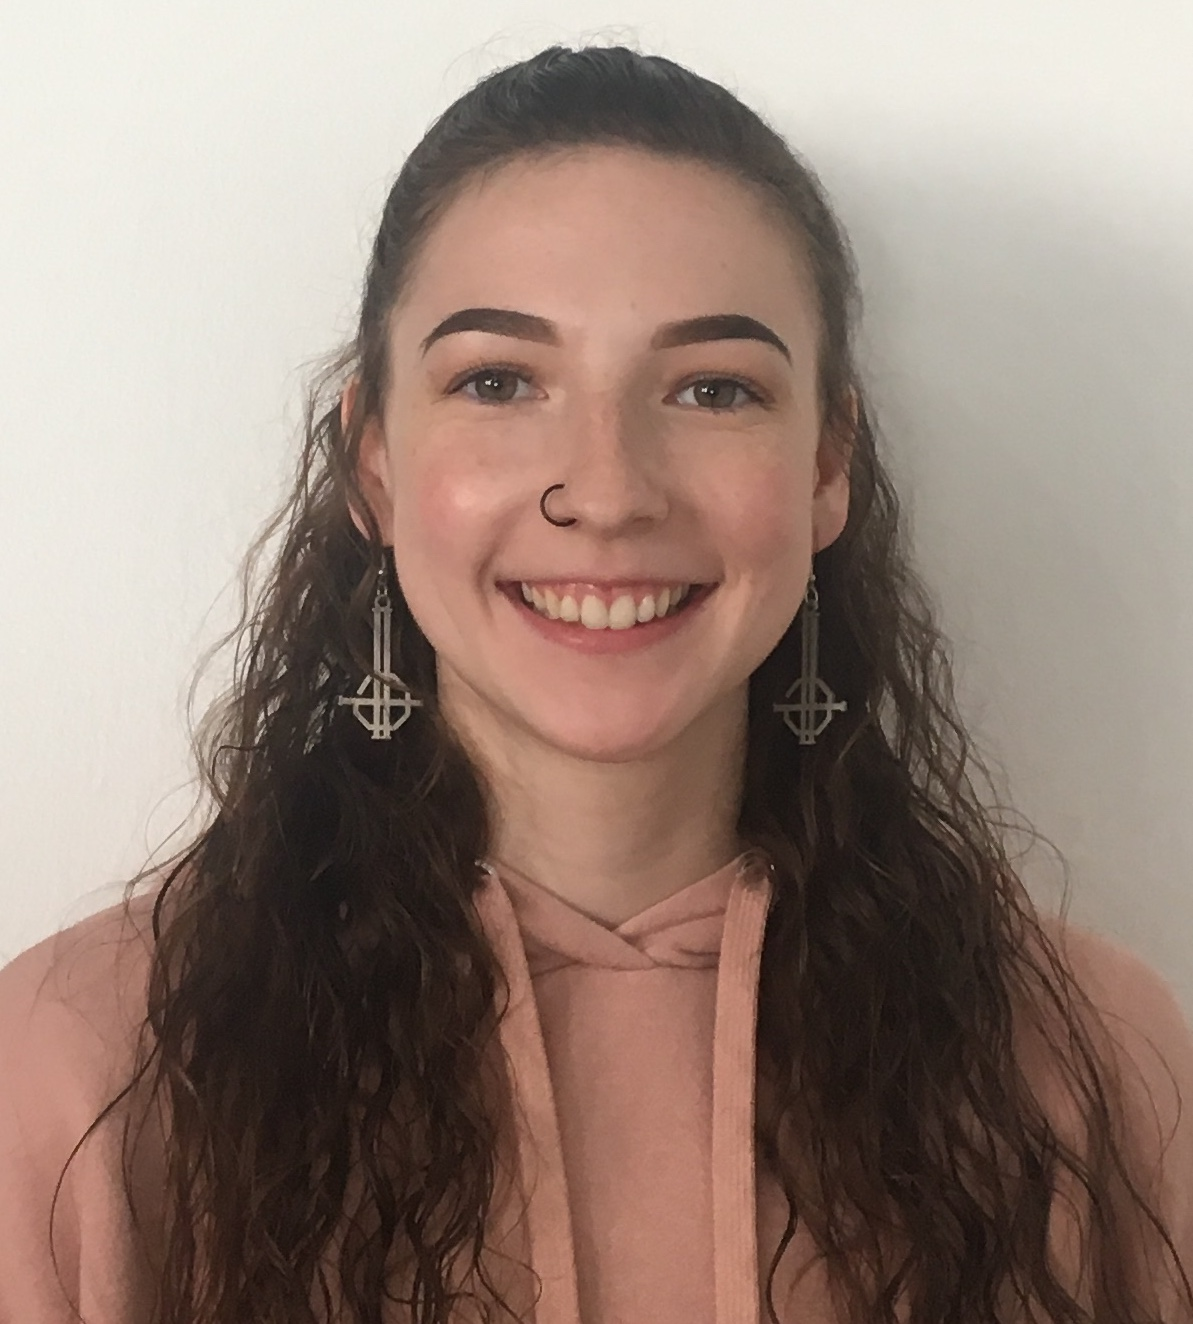
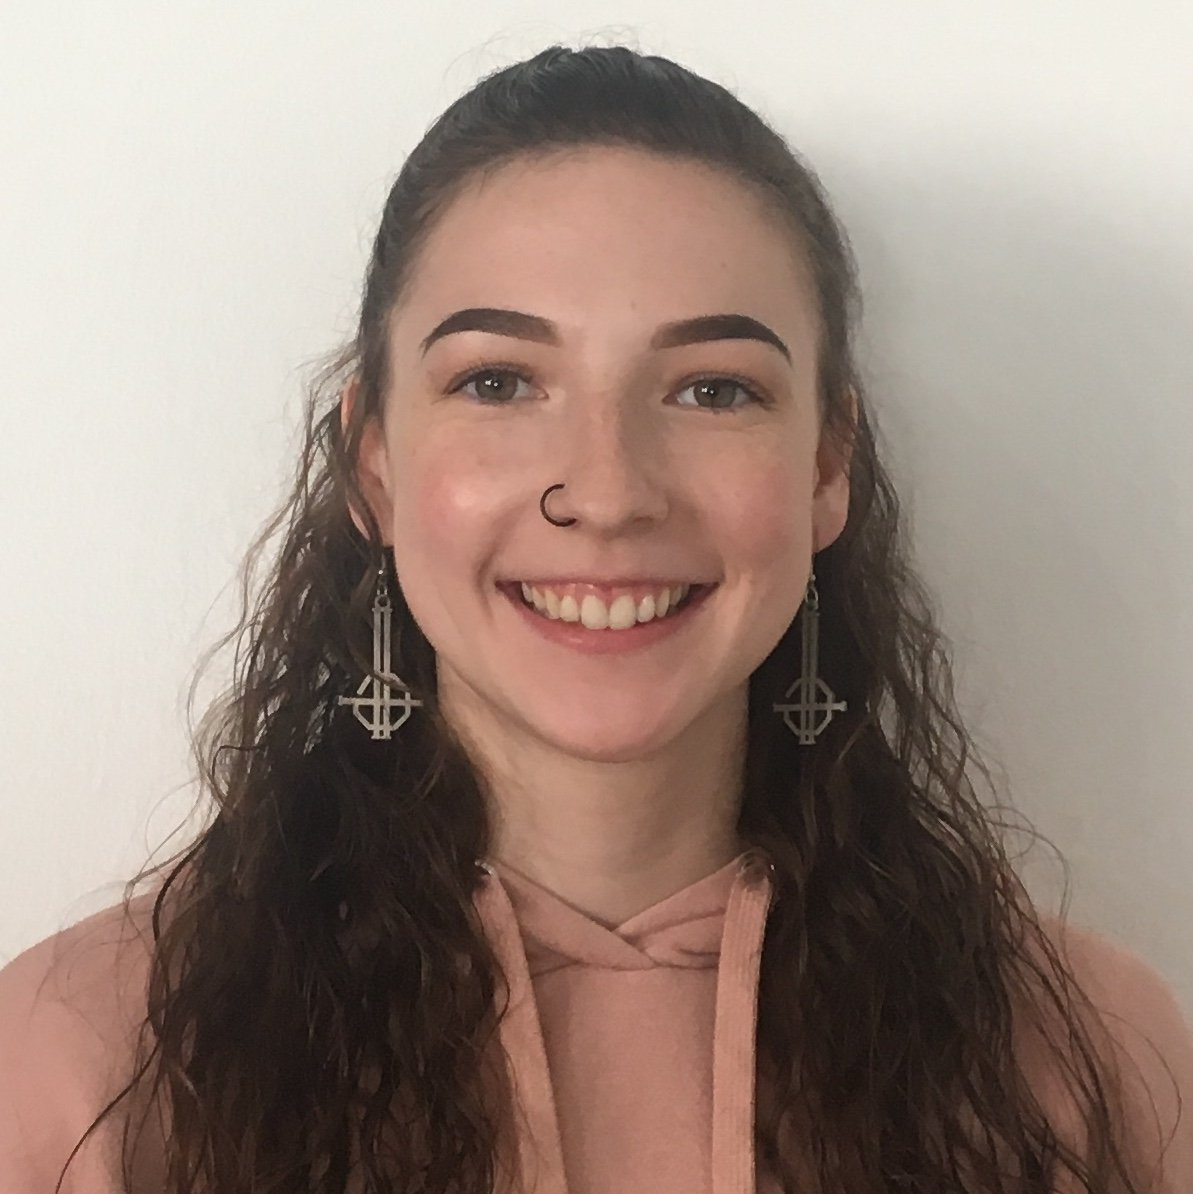
Katie to alumni. All people photos to square.

Changed region(s): [[0.0, 0.062, 1.0, 1.0], [0.4032, 0.031, 0.5893, 0.062], [0.3722, 0.062, 0.4032, 0.093]]

diff --git a/people.html b/people.html
@@ -82,17 +82,6 @@ div.container {
   </div>
 
   <div class="column1">
-    <a href="/people/katiefitzsimons">
-      <div class="polaroid">
-        <img src="/images/KatieFitzsimons.jpg" alt="Katie Fitzsimons" style="bottom-margin=-2em">
-        <div class="container">
-          <h5>Katie Fitzsimons</h5>
-        </div>
-      </div>
-    </a>
-  </div>
-
-  <div class="column1">
     <a href="/people/olakalinowska">
       <div class="polaroid">
         <img src="/images/OlaKalinowska.jpg" alt="Ola Kalinowska" style="bottom-margin=-2em">
@@ -235,18 +224,6 @@ div.container {
 </div>
 
 <h2>Postdogs</h2>
-<div class="row" style="text-align:center;">
-  <div class="column1">
-    <a href="/people/curie">
-      <div class="polaroid">
-        <img src="/images/curie.jpg" alt="Curie" style="bottom-margin=-2em">
-        <div class="container">
-          <h5>Curie</h5>
-        </div>
-      </div>
-    </a>
-  </div>
-
   <!-- <div class="column1">
     <a href="/people/griff">
       <div class="polaroid">
@@ -304,6 +281,11 @@ div.container {
 
 <br>
 <h3>Ph.D. Students</h3>
+
+  <h4 style="margin-bottom:-0.5em;">Katie Fitzsimons</h4>
+    <p style="text-align:left"><a href="/people/katiefitzsimons">Lab Profile</a>
+    <br><b>Thesis:</b> Physical Human-Robot Interaction for Assistance and Training Using Information Metrics, 2020
+    <br><b>After Graduating:</b> <a href="https://www.me.psu.edu/department/directory-detail-g.aspx?q=kzf5356">Assistant Professor</a> of Mechanical Engineering at Penn State</p>
 
   <h4 style="margin-bottom:-0.5em;">Ahalya Prabhakar</h4>
     <p style="text-align:left"><a href="/people/ahalyaprabhakar">Lab Profile</a>
